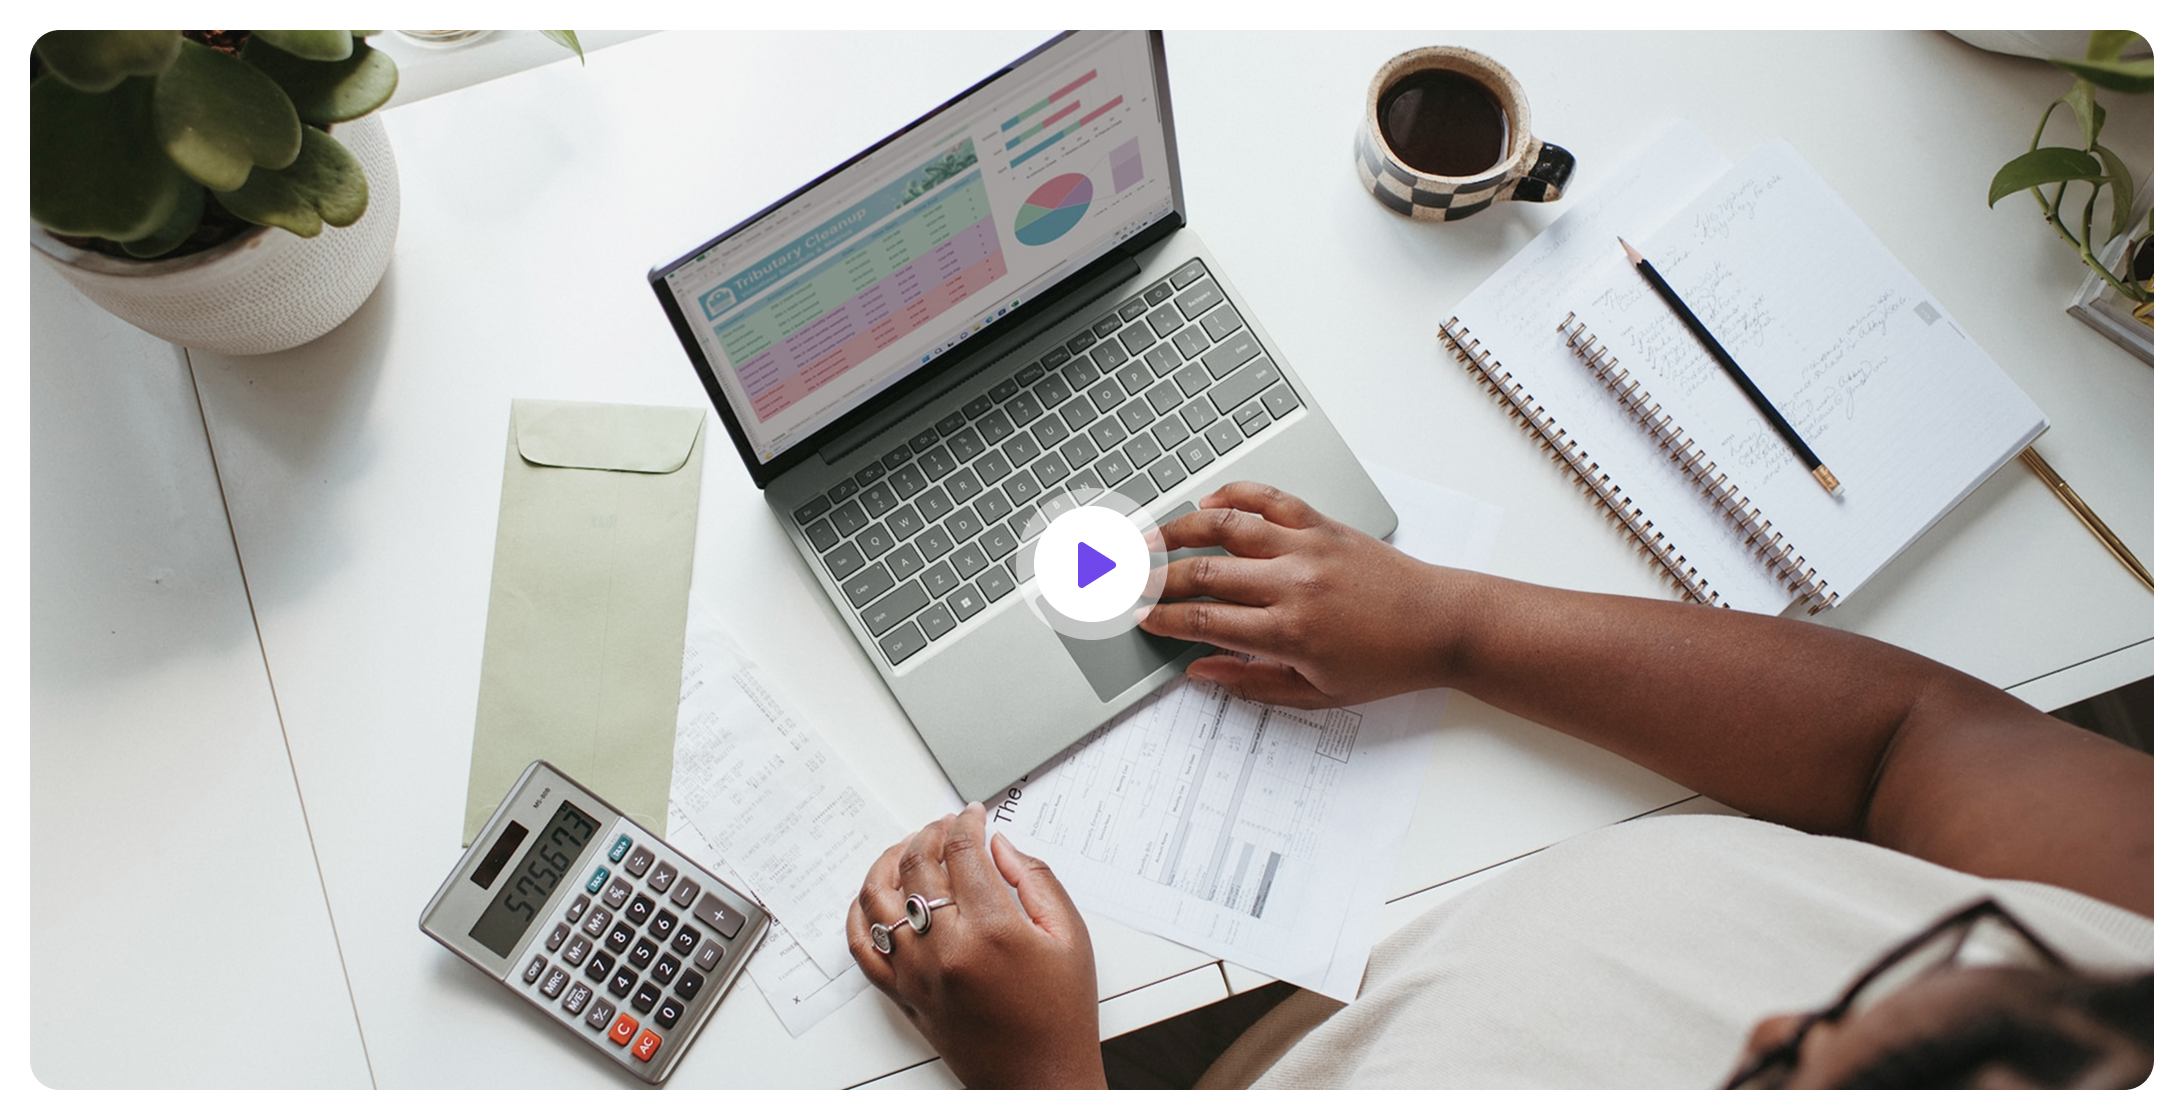
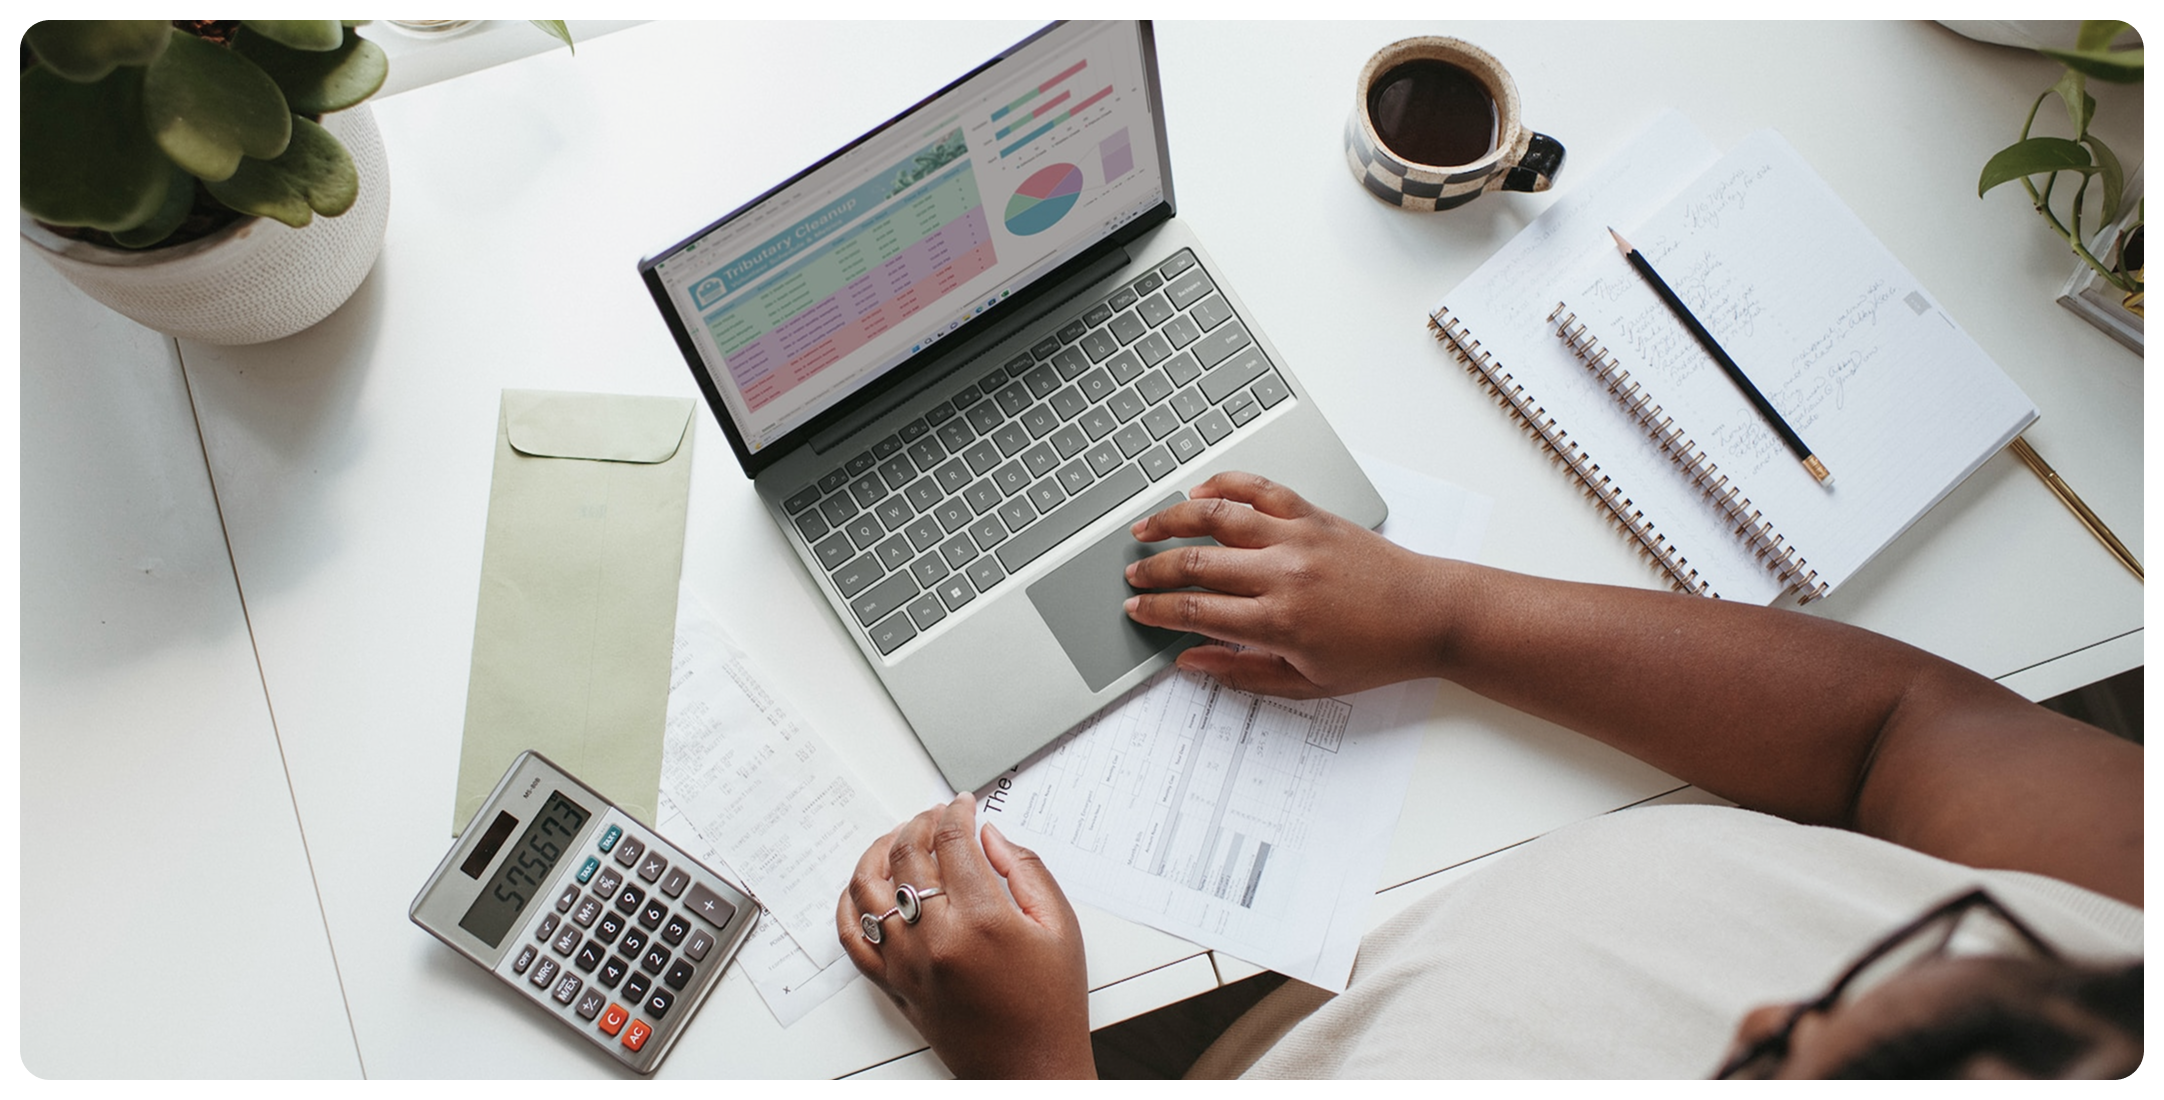
fix: correct hero image size

diff --git a/src/components/Hero.jsx b/src/components/Hero.jsx
@@ -39,14 +39,14 @@ export default function Hero() {
           <p>2,734 Proposals signed</p>
         </div>
         {/* video */}
-        <div className="relative z-10 mt-6 -mb-79 w-273 p-2.5 rounded-[20px] bg-white">
+        <div className="relative z-10 mt-6 -mb-79 w-[1082px]">
           <Image
             src="/images/Figma/Videos-Hero.png"
             alt="Person working with a laptop and calculator"
             loading="eager"
-            width={1072}
-            height={540}
-            className="rounded-[20px] object-cover"
+            width={1082}
+            height={550}
+            className="object-cover"
           />
         </div>
       </div>
